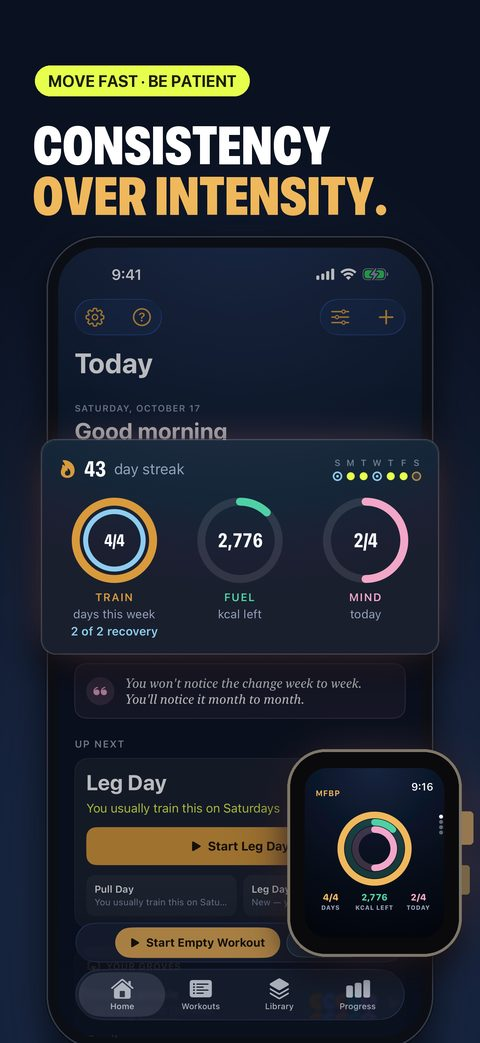
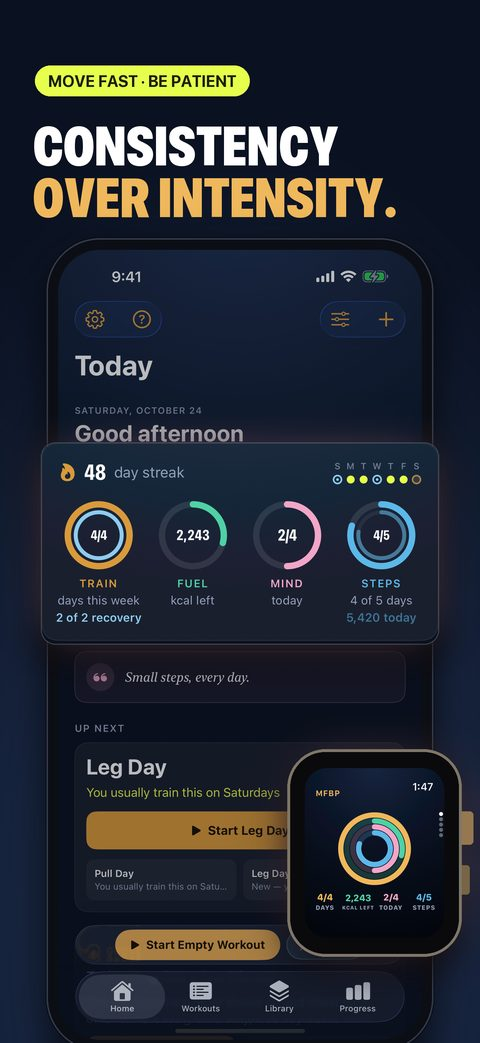
3.6: steps, widgets and calories by macro (privacy, MFBP page, support)
Privacy: step count read for the steps goal (kept in memory only), the
Watch's own step read and summary, and the widgets' summary (rings, Mind
items, thoughts, macros). MFBP page: Walking days count section, four
rings, Home Screen widgets, strip in the 3.6 App Store order. Support FAQ:
steps goal, empty Steps ring, adding widgets.

diff --git a/wellness/privacy/index.html b/wellness/privacy/index.html
@@ -64,7 +64,7 @@
 <body>
 <div class="wrap">
   <h1>Privacy Policy</h1>
-  <div class="meta">MFBP · Last updated October 17, 2026</div>
+  <div class="meta">MFBP · Last updated October 24, 2026</div>
 
   <div class="callout">
     <p><strong>The short version:</strong> MFBP doesn't run any servers and doesn't collect your workouts, Health data, or anything else you keep in the app. There's no account and no MFBP backend. By default everything stays on your device. If you turn on iCloud sync or Apple Health, share a workout, or join a grove, your data moves only between Apple's services, your own devices, and the people you choose. The one thing that ever reaches us is a report or feature request you choose to send from Help &amp; Feedback, and it contains only what's described below.</p>
@@ -107,6 +107,7 @@
   <p><strong>Searching the food list.</strong> The food list in Log Food comes from USDA FoodData Central, a free public-domain database, and is built into the app. When you search it, the search happens on your device: what you type isn't sent to MFBP, to the USDA, or to anyone else.</p>
   <p><strong>Describing a meal (Fuel, Pro).</strong> When you describe what you ate in Log Food, MFBP picks out each food and amount and finds them in the food list for you to check before anything is logged. If Apple Intelligence is on, Apple's on-device model reads your description to pick out the foods; otherwise MFBP does it with simple rules. Either way it all happens on your device: your description is never sent to MFBP, to Apple's servers, or to anyone else, and it isn't kept after you leave the screen. Only the foods you choose to log are saved, to Apple Health, as described above. Your Health data is not given to the model.</p>
   <p><strong>Counting workouts from other apps.</strong> If you turn on Workouts from Apple Health, MFBP reads the workouts other apps and devices save to Health (for example Apple Watch's Workout app or a class from another fitness app), along with the active energy each one burned. MFBP keeps a small record of each one on your iPhone (its type, start and end time, the name of the app that recorded it, and the calories burned), so it can count toward your streak, appear in your streak calendar, and show in Fuel's breakdown of what you burned. Workouts shorter than 10 minutes and workouts MFBP saved itself are skipped. These records are stored only on your iPhone, in storage that is never synced to iCloud. They follow Health: a workout you delete in Health is removed from MFBP, and turning the setting off deletes all of them.</p>
+  <p><strong>Steps (steps goal).</strong> If you turn on the steps goal (Settings › Steps Goal, or the Steps ring in Edit Today), MFBP asks to read your step count from Health. It reads each day's total, which Health works out from your iPhone and Apple Watch without counting a step twice, and uses it only to count the days you reach the step target you chose, to fill the Steps ring, to show your last 12 weeks, to suggest a target from your recent walking, and, if you leave Walk Days on, to let a step day with no workout keep your streak going. MFBP doesn't save the step totals it reads: it keeps them in memory while the app is open and reads them from Health again next time. Only your goal settings are kept, with your settings. Turning the steps goal off stops the reads.</p>
   <p><strong>Sleep and mindful minutes (Mind).</strong> If you track sleep or mindful minutes in Mind, or start a breathing session, MFBP asks to read your sleep (when you were asleep, and your sleep stages if a device recorded them) and your mindful minutes from Health, and to write mindful minutes. It uses these only to show your sleep and mindful minutes against the goals you set. Each breathing session you finish (30 seconds or longer) is saved to Health as mindful minutes. MFBP doesn't keep a copy of the sleep or mindful minutes it reads; it reads them from Health each time. If you set Mind to use only the sleep you log yourself, MFBP doesn't ask for or read sleep from Health at all.</p>
   <p><strong>Saving the sleep you log (Mind, off by default).</strong> If you turn on Save to Apple Health in Mind's sleep settings, MFBP asks for permission to write sleep, and each night you log with a bedtime and wake time is saved to Health as time in bed and time asleep. If you change or delete that night in MFBP, MFBP replaces or deletes what it saved. Nights you log as hours only aren't saved to Health. MFBP also asks to read sleep, so that on a new device it can bring back the nights it saved, including how rested you said you felt.</p>
   <p><strong>Saving your check-ins (Mind, on by default).</strong> On iOS 18 or later, each Mind check-in is saved to Health as a State of Mind entry: how you were feeling, as Health's pleasant-to-unpleasant scale, and any tags that match Health's categories (for example Fitness, Work, Friends or Family), along with your exact choices so MFBP can restore them. MFBP asks for permission to write and read State of Mind the first time. Changing a check-in replaces what MFBP saved for that day. If you answer “How do you feel now?” after a workout while this is on, that answer is saved the same way, as a momentary feeling tied to fitness rather than your mood for the day; changing it replaces it, and MFBP doesn't read these back on a new device. You can turn this off in Mind's settings; check-ins you make while it's off stay only on your device and won't come back if you set up a new one.</p>
@@ -114,7 +115,13 @@
   <p>Health data MFBP reads is processed on your device. It is not sent to MFBP, sold, shared with anyone, used for advertising or marketing, or given to the on-device AI features. MFBP never copies it into iCloud. The only copies it keeps are on your device: the summary of each watch-tracked workout described above, the record of each workout from another app described above, and a small summary of today's numbers described under Widgets below. The only nutrition data MFBP writes to Health is food you log yourself with Log Food. It writes sleep only for nights you log yourself with Save to Apple Health on, State of Mind only for your Mind check-ins while saving them is on, and the only energy data it writes is what your Apple Watch measured during a workout you tracked with it.</p>
 
   <h2>Widgets</h2>
-  <p>If you add the Fuel widget, MFBP saves a small summary of today's fuel on your device, in a storage area shared only with MFBP's own widget. The summary holds calories and macros against your goals, and when they were last updated. It lets the widget display without reading Health itself. The summary is replaced as the day's numbers change, and it's removed when you turn Fuel off.</p>
+  <p>MFBP's widgets show a small summary that MFBP saves on your device, in a storage area shared only with MFBP's own widgets. It lets the widgets display without reading Health or your history themselves.</p>
+  <ul>
+    <li><strong>Fuel and Calories by Macro:</strong> today's calories, protein, carbohydrates and fat against your goals. This summary is removed when you turn Fuel off.</li>
+    <li><strong>Today, Train, Mind, Steps, Streak and Focus:</strong> the rings you have on in Edit Today: your training days this week, your streak and the last seven days, today's calories left, each Mind item you track with whether it's done today (for example “Check-in” or “Slept 7h 30m”), and your step days this week and today's steps.</li>
+    <li><strong>Today's Thought:</strong> the daily thought for the coming week, which can include one of your own thoughts if you mix them into Today's Thought.</li>
+  </ul>
+  <p>Each summary records when it was last updated and is replaced as your day changes. It never leaves your device. Mind's widget hides its items while your iPhone is locked.</p>
   <p>A widget on your Home Screen or Lock Screen can be seen by anyone who can see your device, including while it's locked. Remove the widget if you'd rather keep these numbers private.</p>
 
   <h2>Mind reminders (optional)</h2>
@@ -122,7 +129,8 @@
 
   <h2>Apple Watch companion</h2>
   <p>If you use the MFBP Watch app, it mirrors your active workout (exercise, step, and set progress) to your paired Apple Watch over Apple's WatchConnectivity framework, and relays pause/resume/skip controls back to your phone. If you track a workout on your watch, your heart rate, heart rate zone, calories, workout recap, and effort rating also travel between your watch and your iPhone the same way. If Fuel is on, the watch also shows today's calories left and protein between workouts.</p>
-  <p>With MFBP Pro, your iPhone also sends your Watch a summary of your day for the watch app and the MFBP watch face complications: your training days this week and your streak, today's calories left, and each Mind item you track with whether it's done today (for example “Check-in” or “Slept 7h 30m”). It only includes the rings you have on in Edit Today. The summary is saved on your Watch in a storage area shared only with MFBP's own complications, and it's replaced as your day changes. A complication on your watch face, like a widget, can be seen by anyone who can see your watch. Remove it if you'd rather keep these numbers private.</p>
+  <p>If the steps goal is on, your iPhone sends your Watch your step target and goal, your step days so far this week, and today's step count. The Watch also reads today's step count from Health on the Watch itself, so the Steps ring keeps up when your iPhone isn't nearby. It keeps only today's count, in a storage area shared only with MFBP's own complications, and doesn't send it anywhere.</p>
+  <p>With MFBP Pro, your iPhone also sends your Watch a summary of your day for the watch app and the MFBP watch face complications: your training days this week and your streak, today's calories left, your step days this week and today's steps, and each Mind item you track with whether it's done today (for example “Check-in” or “Slept 7h 30m”). It only includes the rings you have on in Edit Today. The summary is saved on your Watch in a storage area shared only with MFBP's own complications, and it's replaced as your day changes. A complication on your watch face, like a widget, can be seen by anyone who can see your watch. Remove it if you'd rather keep these numbers private.</p>
   <p>All of this stays between your own iPhone and your own Watch. It is not sent to MFBP or anyone else.</p>
 
   <h2>Sharing workouts</h2>

diff --git a/wellness/index.html b/wellness/index.html
@@ -120,13 +120,13 @@
   </header>
 
   <div class="shots" aria-label="App screenshots">
-    <img src="/img/consistency.jpg" alt="Today with Train, Fuel and Mind rings, and the same rings on Apple Watch" loading="lazy">
+    <img src="/img/consistency.jpg" alt="Today with Train, Fuel, Mind and Steps rings, and the same rings on Apple Watch" loading="lazy">
+    <img src="/img/steps.jpg" alt="Steps: this week's step days and the last 12 weeks against the goal" loading="lazy">
+    <img src="/img/widgets.jpg" alt="Home Screen with the Today, Steps and Streak widgets" loading="lazy">
     <img src="/img/grove.jpg" alt="A grove: this week's training days for each friend, with cheers" loading="lazy">
-    <img src="/img/log-food.jpg" alt="Fuel's meals, with breakfast and lunch logged and each meal's total" loading="lazy">
-    <img src="/img/describe.jpg" alt="Describe your meal: each food MFBP found in a sentence, with its portion and calories" loading="lazy">
+    <img src="/img/log-food.jpg" alt="Fuel's calories by macro, with today's protein, carbs and fat, and the day's meals" loading="lazy">
     <img src="/img/long-game.jpg" alt="A year of training days on the streak calendar" loading="lazy">
     <img src="/img/mind.jpg" alt="Mind with today's thought, a check-in with mood and tags, and a 7-day experiment" loading="lazy">
-    <img src="/img/try-a-week.jpg" alt="A 7-day experiment with three good things: how you felt on the days you did it" loading="lazy">
     <img src="/img/demos.jpg" alt="Animated 3D demonstration of a deadlift" loading="lazy">
     <img src="/img/workouts.jpg" alt="Workouts, each drawn as the shape of its sets" loading="lazy">
   </div>
@@ -161,6 +161,7 @@
           <li>Animated 3D demos for over 500 exercises</li>
           <li>Runs, walks and rides with GPS and pace</li>
           <li>Recovery days that count, because rest is part of training</li>
+          <li>A steps goal by the week, where walking days keep your streak</li>
         </ul>
       </div>
       <div class="card fuel">
@@ -168,6 +169,7 @@
         <p>Log food in seconds, and see it next to how you train.</p>
         <ul>
           <li>12,000+ foods to search, saved to Apple Health</li>
+          <li>Calories by macro, for the day and each meal</li>
           <li>Goals from your body weight, and workouts can add to them</li>
           <li>Judged by the week, not just the day (Pro)</li>
           <li>No meal plans, no fad diets</li>
@@ -187,6 +189,25 @@
   </section>
 
   <section>
+    <h2>Walking days count</h2>
+    <p class="sub">Not every good day is a workout. A steps goal counted by the week, from Apple Health.</p>
+    <div class="grid">
+      <div class="card">
+        <h3>A step day, your way</h3>
+        <p>Pick what a step day is, 7,000 to start, and how many you aim for a week, or choose every day. MFBP can suggest one from your recent walking.</p>
+      </div>
+      <div class="card">
+        <h3>Walks keep your streak</h3>
+        <p>A step day with no workout counts as recovery, so your streak keeps going. A slow day never breaks the week.</p>
+      </div>
+      <div class="card">
+        <h3>On your wrist</h3>
+        <p>A Steps ring on Today and on Apple Watch, with a Steps page and a ring for your watch face (Pro). Free to turn on.</p>
+      </div>
+    </div>
+  </section>
+
+  <section>
     <h2>Log food in seconds</h2>
     <p class="sub">Know what you're eating without turning every meal into homework.</p>
     <div class="grid">
@@ -200,7 +221,7 @@
       </div>
       <div class="card">
         <h3>By the meal, by the week</h3>
-        <p>Breakfast, lunch, dinner and snacks with their totals, and a logging streak counted by the week, so one missed day never breaks it.</p>
+        <p>Breakfast, lunch, dinner and snacks with their totals and how much came from protein, carbs and fat, and a logging streak counted by the week, so one missed day never breaks it.</p>
       </div>
     </div>
     <p class="note">Everything you log is saved to Apple Health, so your other apps see it too, and nothing is kept anywhere else. Already use another food app? Fuel reads that too.</p>
@@ -260,15 +281,19 @@
 
   <section>
     <h2>One view of your day</h2>
-    <p class="sub">Your three rings and your streak, with one suggestion for what's next.</p>
+    <p class="sub">Your rings and your streak, with one suggestion for what's next.</p>
     <div class="grid">
       <div class="card">
         <h3>Today at a glance</h3>
-        <p>Train, Fuel and Mind rings beside your streak, and an Up Next pick that weighs your week. Turn rings and cards on or off and put them in the order you like.</p>
+        <p>Train, Fuel, Mind and Steps rings beside your streak, and an Up Next pick that weighs your week. Turn rings and cards on or off and put them in the order you like.</p>
+      </div>
+      <div class="card">
+        <h3>On your Home Screen</h3>
+        <p>Widgets for Today's rings, or Train, Mind, Steps, your streak, today's thought or calories by macro on their own. Free.</p>
       </div>
       <div class="card">
         <h3>On your wrist</h3>
-        <p>Track workouts on Apple Watch with live heart rate and calories, and see your three rings between workouts and right on your watch face (Pro).</p>
+        <p>Track workouts on Apple Watch with live heart rate and calories, and see your rings between workouts and right on your watch face (Pro).</p>
       </div>
     </div>
   </section>

diff --git a/wellness/support/index.html b/wellness/support/index.html
@@ -83,6 +83,9 @@
     <li><strong>How do I log food?</strong> Tap Log Food in Fuel, or press and hold the Fuel ring on Today. Search more than 12,000 foods, pick a portion (or ounces or grams) and type any amount, and the calories, protein, carbs and fat fill in. You can also type calories yourself, save foods to My Foods, or log again something you've had lately. Logging is free. Tap anything you logged in Fuel to change the amount or meal, or to delete it.</li>
     <li><strong>I already use another food app. Will meals count twice?</strong> Fuel reads food from any app that shares with Apple Health, so a meal logged in both places would count twice. Choose Count Food From in Fuel Goals: Both, Only MFBP, or Only Other Apps. Most food apps, MyFitnessPal included, don't read food from Apple Health, so log each meal in one place.</li>
     <li><strong>What do Describe Your Meal and barcode scanning send?</strong> Both are part of MFBP Pro. Describe Your Meal works on your iPhone, with Apple Intelligence when it's available, and nothing you type leaves your iPhone. Barcode scanning sends only the barcode number to Open Food Facts, a free food database, to look the product up; MFBP asks before the first lookup, and nothing scanned is kept.</li>
+    <li><strong>How does the steps goal work?</strong> Turn it on in Settings › Steps Goal, or with the Steps ring in Edit Today. Pick what a step day is (5,000 to 10,000; 7,000 to start) and how many you aim for a week, or every day. Steps come from Apple Health, from your iPhone and Apple Watch, without counting a step twice. With Walk Days on, a step day with no workout counts as a recovery day, so it keeps your streak going without adding to it. It's free.</li>
+    <li><strong>Why is my Steps ring empty?</strong> MFBP needs permission to read Steps from Apple Health. Open the Health app, tap your picture › Apps › MFBP (or Settings › Privacy &amp; Security › Health › MFBP) and turn on Steps. Steps also need your iPhone's Motion &amp; Fitness tracking on, or an Apple Watch.</li>
+    <li><strong>How do I add MFBP widgets?</strong> Touch and hold an empty spot on your Home Screen, tap Edit › Add Widget and choose MFBP. Today shows every ring in small, medium or large; Train, Mind, Steps, Streak, Today's Thought, Fuel and Calories by Macro show one thing each. On iOS 27, the Focus widget shows whichever one you pick in Edit Widget. Widgets show what MFBP last worked out, so open MFBP now and then to refresh them. Mind's widget hides your habits while your iPhone is locked.</li>
     <li><strong>What's a grove?</strong> A few friends, up to 8, who see the days each other does MFBP workouts and cheer each other on. There are no weights or numbers to compare. Each week most of the grove shows up, it grows a ring, so it's something you build over months and years. Start one from the Grove card on Today or Settings › Grove, and send the invite link to the people you want in it. Groves are free and need an iCloud account.</li>
     <li><strong>What do people in my grove see?</strong> The name you choose to go by, the days in the last eight weeks you finished an MFBP workout, those workouts' names, and cheers. Never weights, sets, times, Fuel, Mind or anything from Apple Health. Groves go through iCloud sharing; MFBP never receives them.</li>
     <li><strong>Someone in my grove is bothering me. What can I do?</strong> Press and hold their name to hide them (only for you) or report them to us; they aren't told who reported them. If you started the grove, you can also remove them, and the old invite link won't let them back in. You can report a whole grove from its ⋯ menu, and leave any grove at any time.</li>
